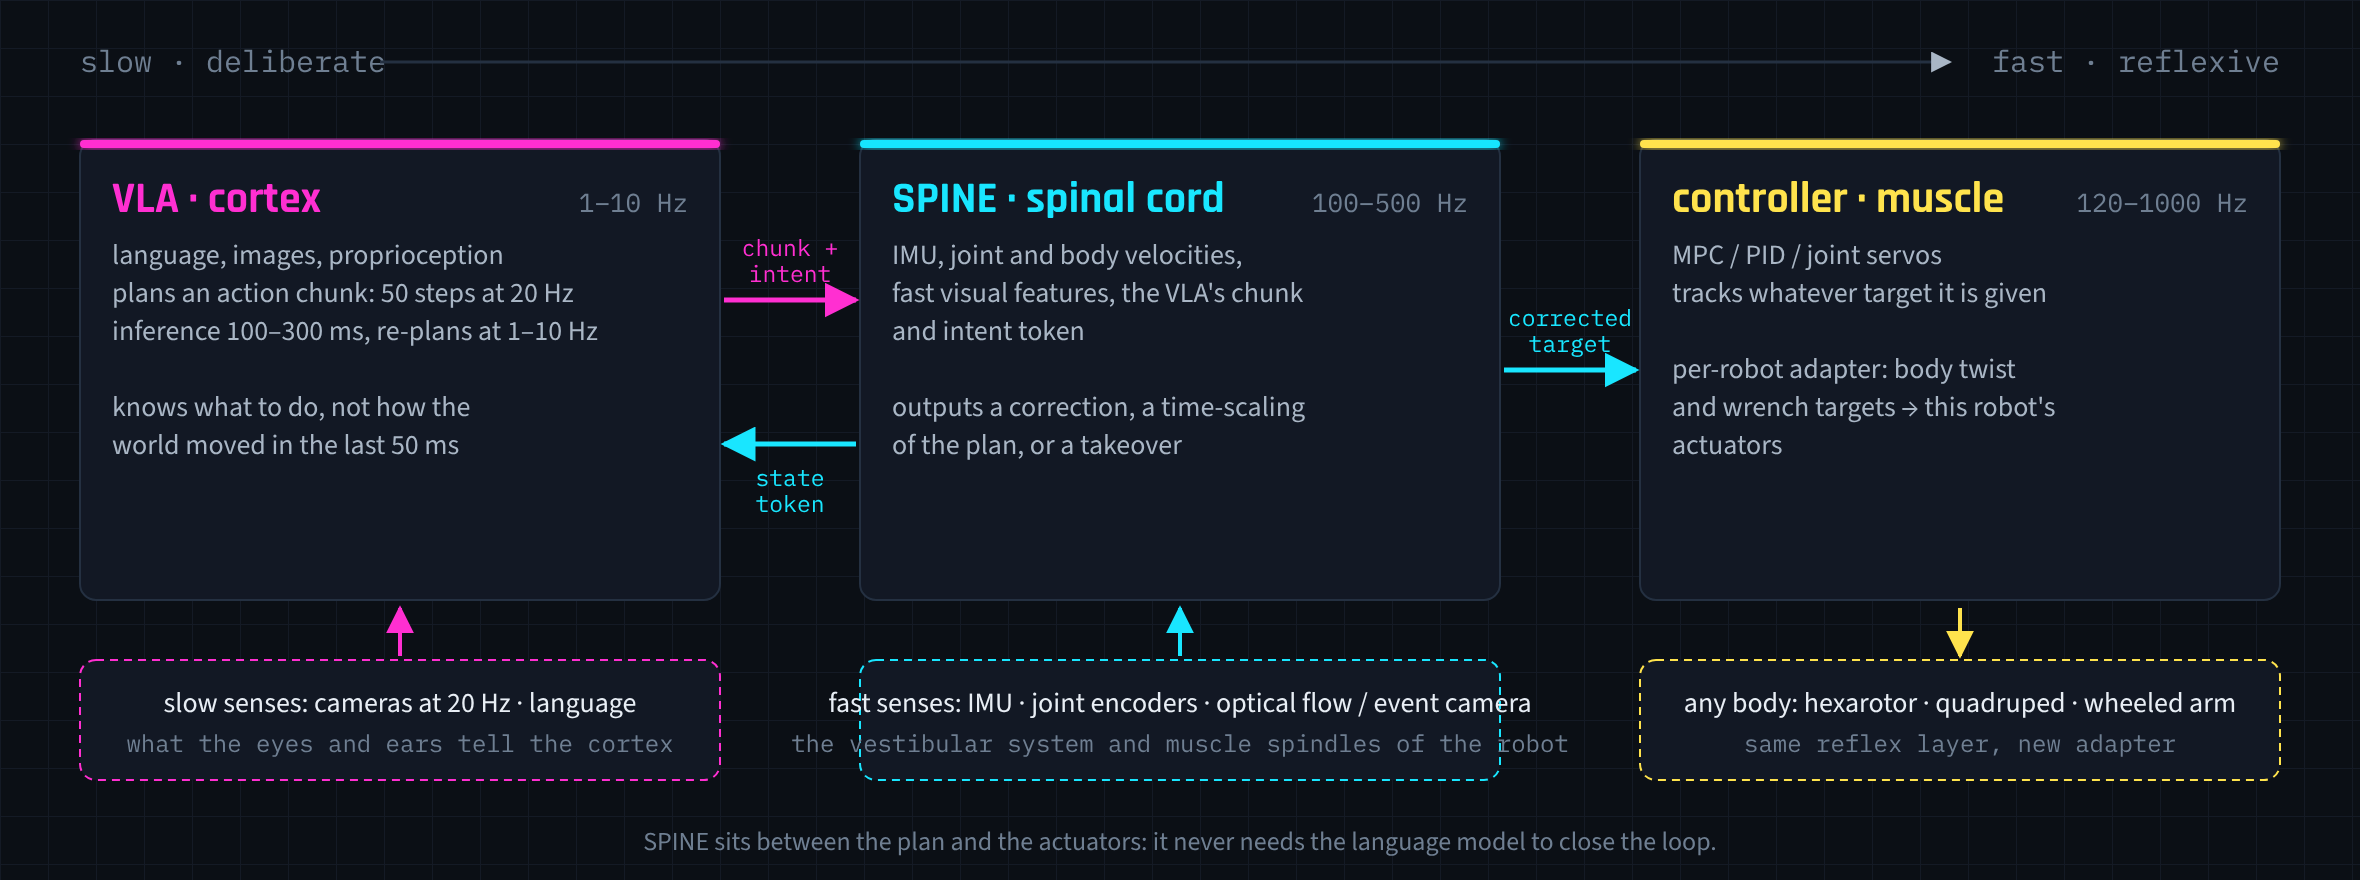
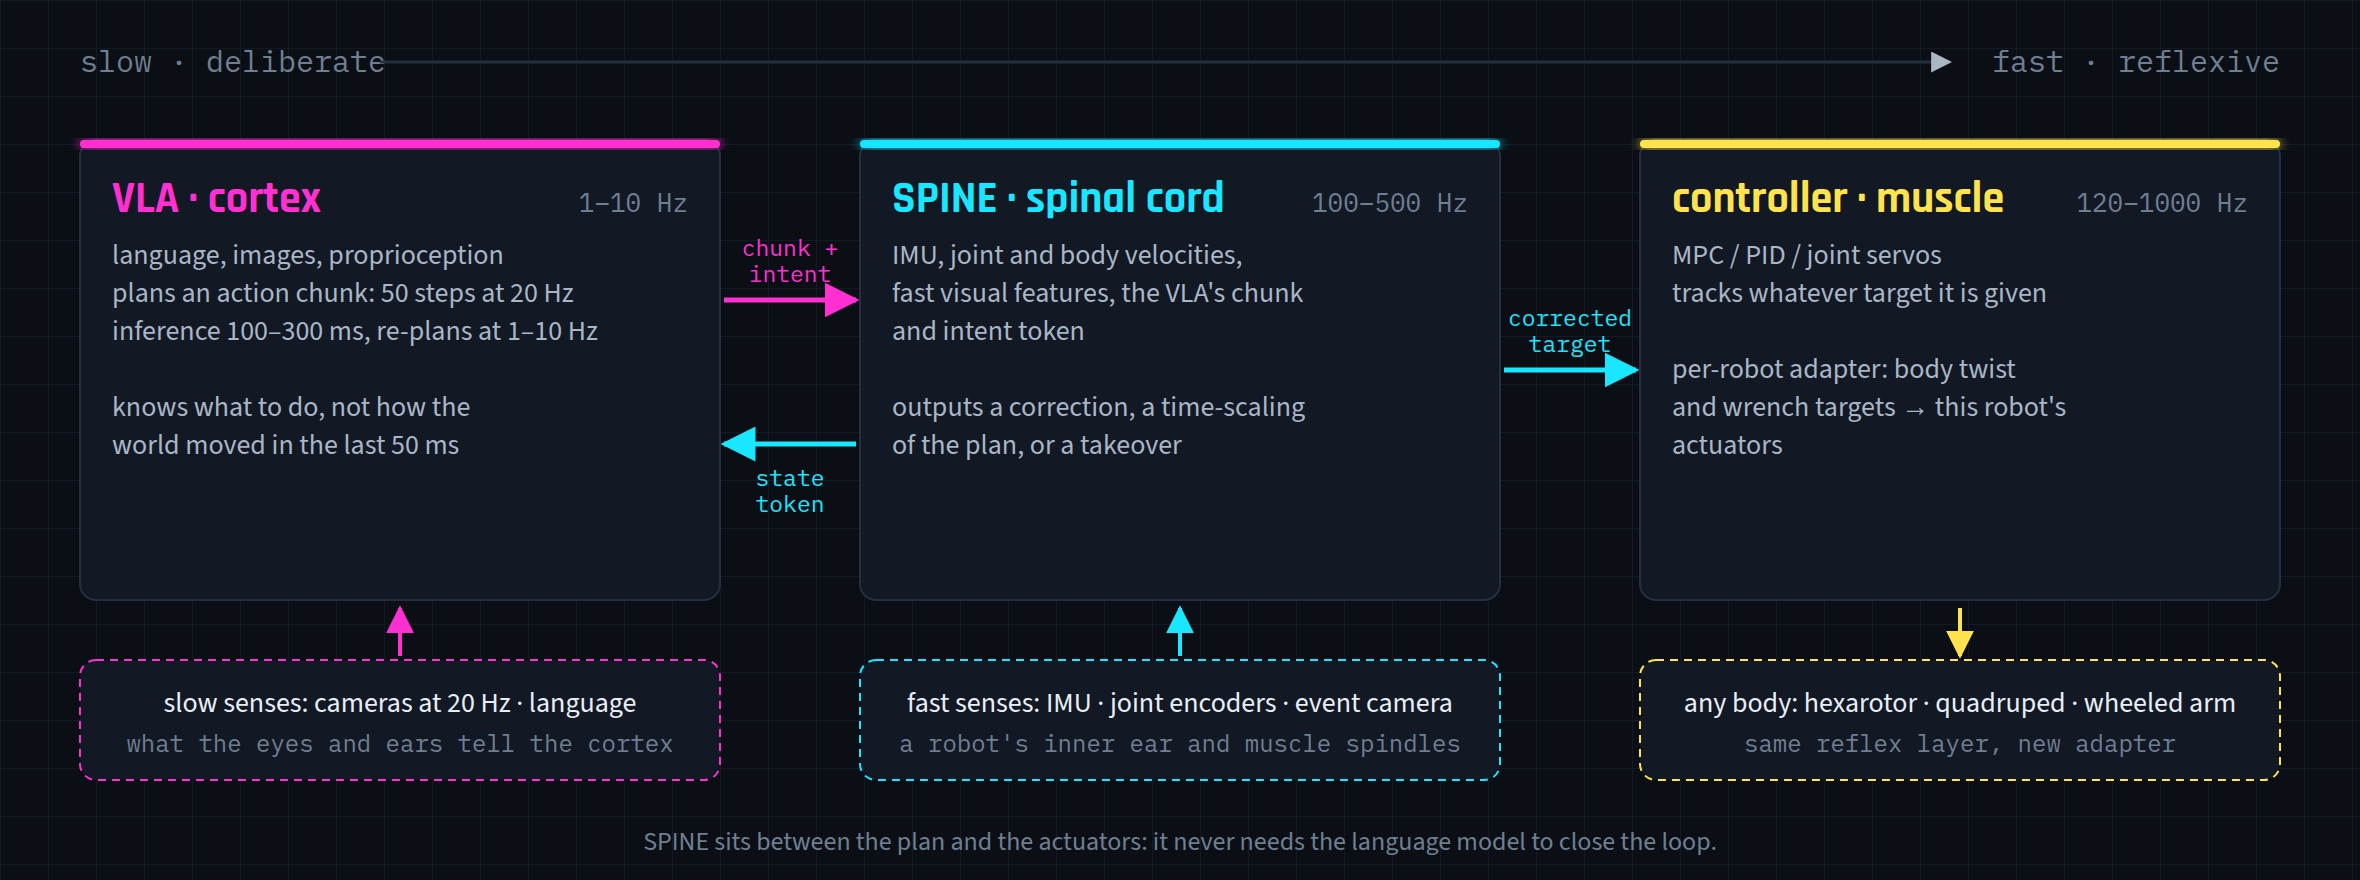
Fit the fast-senses labels inside their box in Figure 2
Both lines ran past the 320 px box (352 and 389 px). They now read "fast senses: IMU ·
joint encoders · event camera" and "a robot's inner ear and muscle spindles" (273 and
281 px), as wide as the labels of the two neighbouring boxes. The PNG is re-rendered at 2x
from the regenerated SVG with the page fonts, and the page asks for it with ?v=2.

Claude-Session: https://claude.ai/code/session_01D2rvpDkKW8BetFF8bMxPxM

diff --git a/index.html b/index.html
@@ -237,7 +237,7 @@
         <h2>A reflex layer between the plan and the actuators</h2>
         <p>A VLA such as π0.5 or GR00T N1 reads language and images, thinks for 100–300 ms, and emits a chunk of actions that the robot then plays back for a second or more. Everything that happens to the body inside that window, a gust, a slip, a bump, a payload shift, is handled by whatever low-level controller sits underneath, which knows nothing about the task. <b>SPINE</b> is the missing middle: a small network that runs at hundreds of hertz on proprioception and fast visual cues, sees the VLA's chunk and its intent, and decides in each millisecond whether to let the plan run, correct it, slow it down, or take over.</p>
         <figure class="figure">
-          <a href="assets/figures/three_loops.png" target="_blank" rel="noopener"><img src="assets/figures/three_loops.png" width="2360" height="880" alt="Three control loops: the VLA as cortex, SPINE as spinal cord, the controller as muscle"></a>
+          <a href="assets/figures/three_loops.png?v=2" target="_blank" rel="noopener"><img src="assets/figures/three_loops.png?v=2" width="2360" height="880" alt="Three control loops: the VLA as cortex, SPINE as spinal cord, the controller as muscle"></a>
           <figcaption><b>Figure 2.</b> Three loops, three clocks. SPINE takes the VLA's chunk and intent as input, the robot's fast senses as its own, and hands a corrected target to the controller. It talks back to the VLA with a state token, so the planner learns to expect it.</figcaption>
         </figure>
         <ul class="points">

diff --git a/assets/figures/make_figures.py b/assets/figures/make_figures.py
@@ -51,8 +51,8 @@ svg.append(f'<text x="785" y="163" font-size="11.5" fill="{CYAN}" text-anchor="m
 svg.append(f'<text x="785" y="176" font-size="11.5" fill="{CYAN}" text-anchor="middle" {MONO}>target</text>')
 # sensors
 svg.append(f'<rect x="430" y="330" width="320" height="60" rx="8" fill="{PANEL}" stroke="{CYAN}" stroke-dasharray="4 3"/>')
-svg.append(f'<text x="590" y="356" font-size="14" fill="{INK}" text-anchor="middle" {SANS}>fast senses: IMU · joint encoders · optical flow / event camera</text>')
-svg.append(f'<text x="590" y="376" font-size="12" fill="{FAINT}" text-anchor="middle" {MONO}>the vestibular system and muscle spindles of the robot</text>')
+svg.append(f'<text x="590" y="356" font-size="14" fill="{INK}" text-anchor="middle" {SANS}>fast senses: IMU · joint encoders · event camera</text>')
+svg.append(f'<text x="590" y="376" font-size="12" fill="{FAINT}" text-anchor="middle" {MONO}>a robot\'s inner ear and muscle spindles</text>')
 svg.append(f'<line x1="590" y1="328" x2="590" y2="304" stroke="{CYAN}" stroke-width="2" marker-end="url(#a-cyan)"/>')
 svg.append(f'<rect x="40" y="330" width="320" height="60" rx="8" fill="{PANEL}" stroke="{MAG}" stroke-dasharray="4 3"/>')
 svg.append(f'<text x="200" y="356" font-size="14" fill="{INK}" text-anchor="middle" {SANS}>slow senses: cameras at 20 Hz · language</text>')
